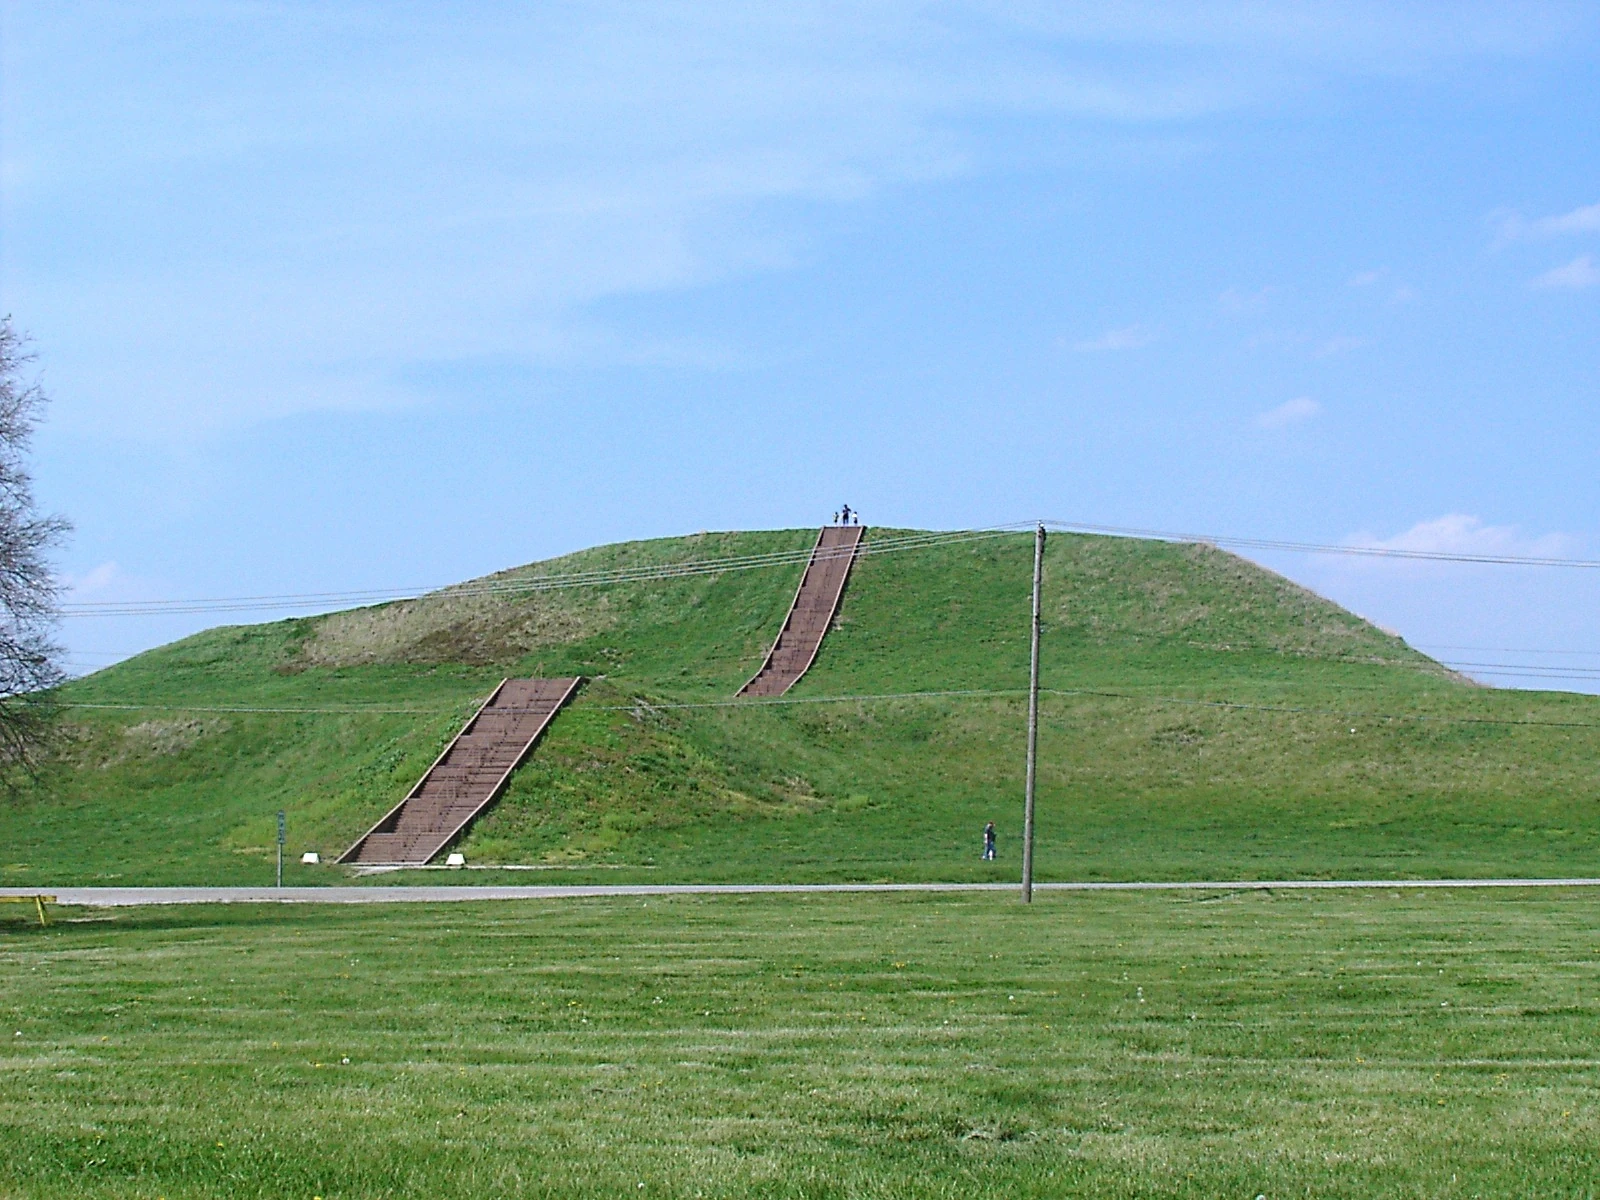
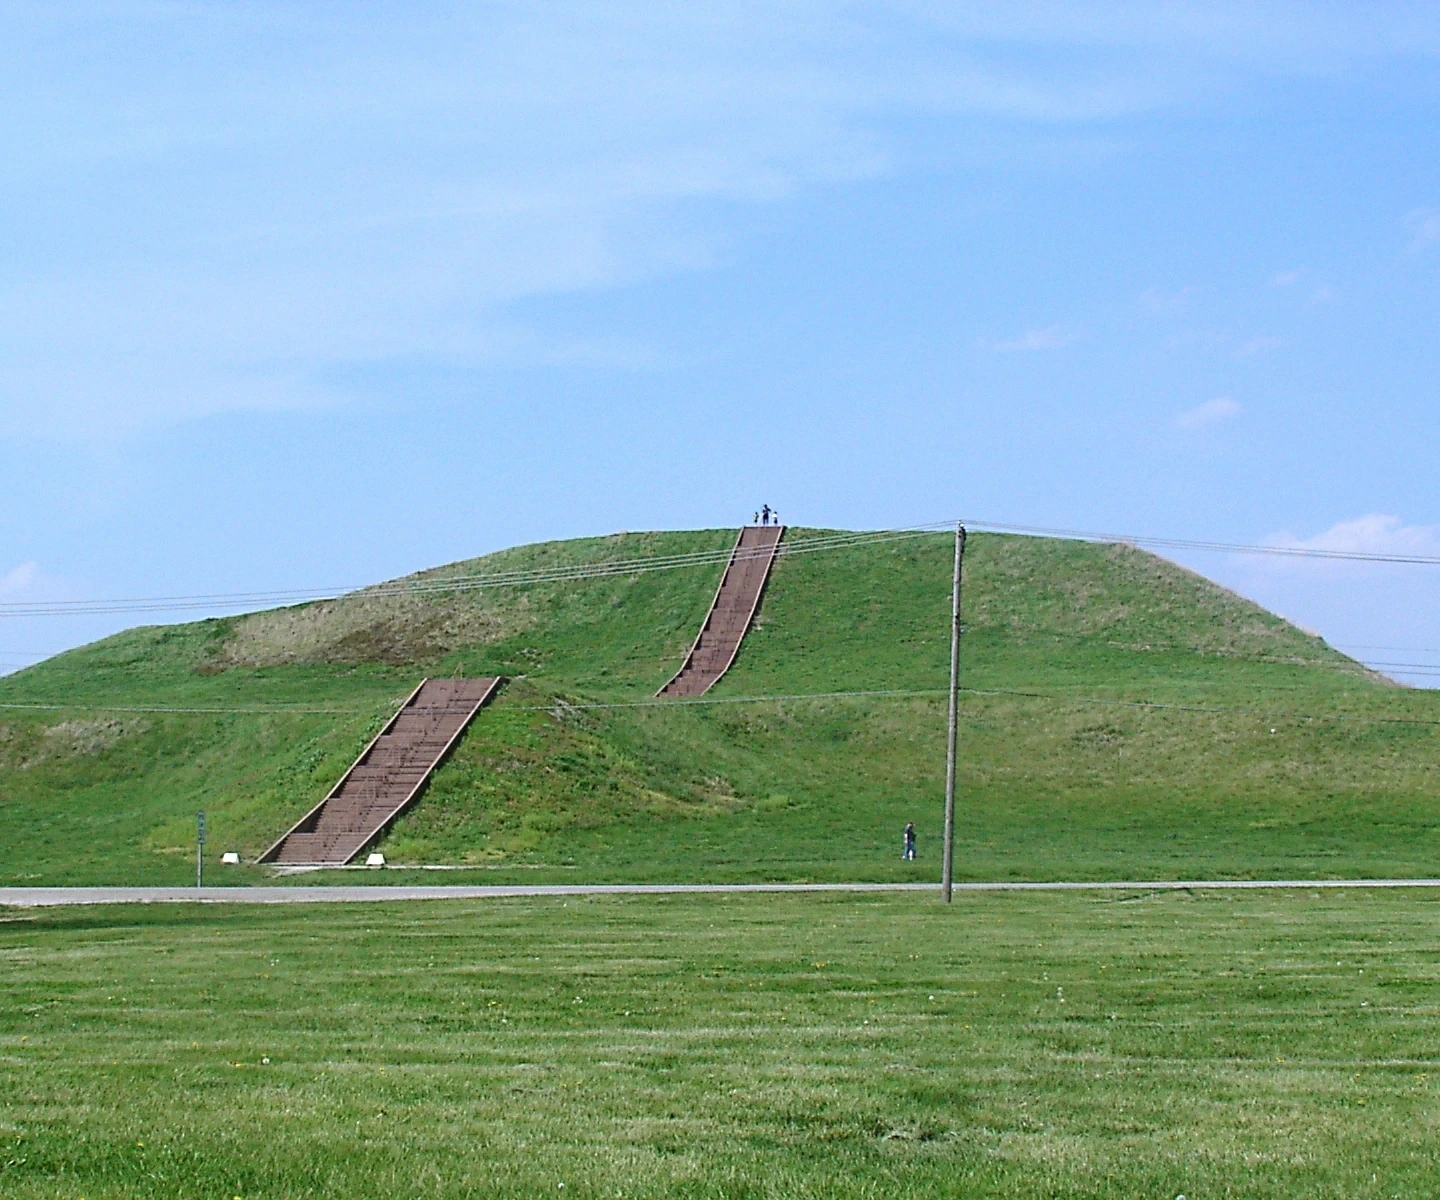
Tightened up section

diff --git a/7/FirstAmericans/Mississippians/mississippians.css b/7/FirstAmericans/Mississippians/mississippians.css
@@ -85,7 +85,7 @@ main{max-width:var(--max);margin:0 auto;padding:108px 1rem 4rem}
 
 .locationFlow{display:grid;grid-template-columns:1fr auto 1fr auto 1fr;gap:.55rem;align-items:center;margin-top:.9rem}.locationFlow>div:not(.flowArrow){min-height:126px;padding:.85rem;border-radius:14px;background:#f7f0ca;border:1px solid rgba(122,90,54,.15)}.locationFlow>div>span{display:grid;place-items:center;width:32px;height:32px;border-radius:50%;background:var(--leaf);color:white;font-weight:1000;margin-bottom:.35rem}.locationFlow b{display:block;color:var(--leaf-dark)}.locationFlow small{display:block;color:#5e675e;line-height:1.4;margin-top:.2rem}.flowArrow{font-size:1.8rem;color:var(--soil);font-weight:1000}
 
-.cityFeatureGrid{display:grid;grid-template-columns:repeat(4,1fr);gap:.7rem;margin-top:.85rem}.cityFeatureGrid article{padding:.7rem;border-radius:14px;background:#fbf7e6;border:1px solid var(--line);text-align:center;overflow:hidden}.cityFeatureGrid h3{color:var(--leaf-dark);margin:.55rem 0 .25rem}.cityFeatureGrid p{margin:.15rem 0 .35rem}.cityFeatureFigure{margin:0}.cityFeatureFigure .imageButton{width:100%;display:block;border-radius:10px;background:#edf0df}.cityFeatureFigure .imageButton img{width:100%;height:auto;aspect-ratio:4/3;object-fit:contain;border:0;border-radius:10px;background:#edf0df}.cityFeatureFigure figcaption{min-height:1.35rem;padding:.28rem .15rem 0;font-size:.7rem;line-height:1.25;color:#667066}.cityFeatureFigure figcaption a{color:var(--leaf-dark);font-weight:800;text-decoration:underline;text-underline-offset:2px}.woodhengeFigure .imageButton img{background:#dff3ef}.cityFeatureFigure .zoomHint{font-size:.65rem;padding:.25rem .4rem}
+.cityFeatureGrid{display:grid;grid-template-columns:repeat(4,1fr);gap:.7rem;margin-top:.85rem}.cityFeatureGrid article{padding:.65rem .65rem .8rem;border-radius:14px;background:#fbf7e6;border:1px solid var(--line);text-align:center;overflow:hidden}.cityFeatureGrid h3{color:var(--leaf-dark);margin:.35rem 0 .18rem}.cityFeatureGrid p{margin:.12rem 0 0}.cityFeatureFigure{margin:0}.cityFeatureFigure .imageButton{width:100%;display:block;border-radius:10px;background:#edf0df}.cityFeatureFigure .imageButton img{width:100%;height:auto;aspect-ratio:6/5;object-fit:cover;border:0;border-radius:10px;background:#edf0df}.cityFeatureFigure figcaption{min-height:1.85rem;padding:.3rem .15rem 0;font-size:.7rem;line-height:1.25;color:#667066}.cityFeatureFigure figcaption a{color:var(--leaf-dark);font-weight:800;text-decoration:underline;text-underline-offset:2px}.woodhengeFigure .imageButton img{background:#dff3ef}.cityFeatureFigure .zoomHint{display:none}.cityFeatureIcon{display:block;position:relative;width:54px;height:42px;margin:.25rem auto .2rem}.cityFeatureIcon.moundSymbol{background:linear-gradient(180deg,#6f7d3e,#4e6136);clip-path:polygon(18% 0,82% 0,100% 100%,0 100%);border-top:6px solid #8fa15d}.cityFeatureIcon.plazaSymbol{border:3px solid var(--leaf);background:repeating-linear-gradient(90deg,rgba(226,195,78,.24) 0 7px,rgba(255,255,255,.2) 7px 14px);border-radius:6px}.cityFeatureIcon.wallSymbol{background:repeating-linear-gradient(90deg,#6a482d 0 6px,#8f6438 6px 10px);border-bottom:6px solid #51341f}.cityFeatureIcon.sunSymbol{display:grid;place-items:center;font-size:2.5rem;line-height:1;color:var(--corn);text-shadow:0 2px 0 rgba(122,90,54,.20)}
 
 .monksFeature{display:grid;grid-template-columns:1fr .92fr;gap:1.2rem;align-items:start;margin:1rem 0;padding:1.4rem;border-radius:20px;background:linear-gradient(135deg,#f4e285,#fbf6d7);border:2px solid rgba(49,91,55,.24);box-shadow:var(--shadow)}.monksText p{max-width:64ch}.monksFigure{margin:0;padding:.45rem;border-radius:16px;background:rgba(255,253,244,.76);border:1px solid rgba(49,91,55,.18)}.monksFigure .imageButton img{width:100%;height:auto;min-height:0;object-fit:contain;border-radius:12px;border:2px solid rgba(49,91,55,.16);background:#fffef6}.monksFigure figcaption{font-size:.82rem;line-height:1.45;color:#556255;padding:.55rem .25rem .1rem}
 

diff --git a/7/FirstAmericans/Mississippians/cahokia.html b/7/FirstAmericans/Mississippians/cahokia.html
@@ -71,10 +71,10 @@
           <figure class="cityFeatureFigure">
             <button class="imageButton zoomable" type="button" data-zoom-src="images/monks-mound-today.webp" aria-label="Enlarge the present-day photograph of Monks Mound">
               <img src="images/monks-mound-today.webp" alt="Present-day photograph of Monks Mound at Cahokia" />
-              <span class="zoomHint">Click to enlarge</span>
-            </button>
+              </button>
             <figcaption>Monk's Mound Today</figcaption>
           </figure>
+          <span class="cityFeatureIcon moundSymbol" aria-hidden="true"></span>
           <h3>Monks Mound</h3>
           <p>The city’s enormous central platform mound supported a large building on its summit.</p>
         </article>
@@ -82,9 +82,10 @@
           <figure class="cityFeatureFigure">
             <button class="imageButton zoomable" type="button" data-zoom-src="images/grand-plaza.webp" aria-label="Enlarge the reconstruction of Cahokia's Grand Plaza">
               <img src="images/grand-plaza.webp" alt="Reconstruction of Cahokia's Grand Plaza with Monks Mound rising behind the settlement" />
-              <span class="zoomHint">Click to enlarge</span>
             </button>
+            <figcaption>Reconstruction of the Grand Plaza</figcaption>
           </figure>
+          <span class="cityFeatureIcon plazaSymbol" aria-hidden="true"></span>
           <h3>Grand Plaza</h3>
           <p>A huge open space at the city’s center was used for gatherings, ceremonies, games, and other public activity.</p>
         </article>
@@ -92,9 +93,10 @@
           <figure class="cityFeatureFigure">
             <button class="imageButton zoomable" type="button" data-zoom-src="images/stockade-construction.webp" aria-label="Enlarge the illustration of Cahokia stockade construction">
               <img src="images/stockade-construction.webp" alt="Illustration showing construction of a tall wooden stockade at Cahokia" />
-              <span class="zoomHint">Click to enlarge</span>
             </button>
+            <figcaption>Stockade construction scene</figcaption>
           </figure>
+          <span class="cityFeatureIcon wallSymbol" aria-hidden="true"></span>
           <h3>Stockade</h3>
           <p>A tall wooden palisade surrounded the central precinct. Its bastions suggest defense was at least part of its purpose.</p>
         </article>
@@ -102,10 +104,10 @@
           <figure class="cityFeatureFigure woodhengeFigure">
             <button class="imageButton zoomable" type="button" data-zoom-src="images/woodhenge.gif" aria-label="Enlarge the animated Woodhenge solstice diagram">
               <img src="images/woodhenge.gif" alt="Animated diagram showing Woodhenge aligned with the summer solstice and Monks Mound" />
-              <span class="zoomHint">Click to enlarge</span>
-            </button>
+              </button>
             <figcaption>Source: <a href="https://orias.berkeley.edu/resources-teachers/societies-americas/cahokia" target="_blank" rel="noopener">ORIAS, UC Berkeley</a></figcaption>
           </figure>
+          <span class="cityFeatureIcon sunSymbol" aria-hidden="true">☀</span>
           <h3>Woodhenge</h3>
           <p>Large rings of wooden posts marked important positions of the rising sun and helped track seasons and ceremonial dates.</p>
         </article>
